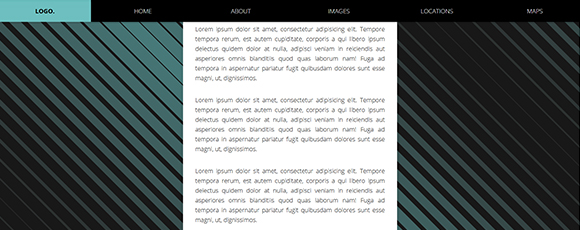
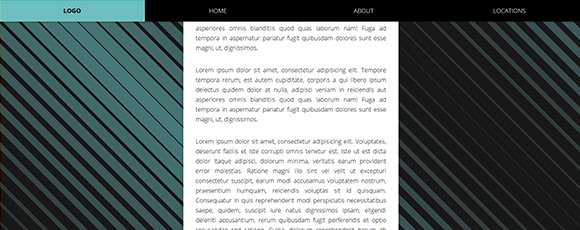
JavaScript30 - 24 - Responsive

diff --git a/src/assets/scss/components/javascript30/_24-sticky-nav.scss b/src/assets/scss/components/javascript30/_24-sticky-nav.scss
@@ -9,7 +9,7 @@
     
     .site-wrap {
         max-width: 700px;
-        margin: 70px auto;
+        margin: 0 auto;
         background: $white;
         padding: 40px;
         text-align: justify;
@@ -28,33 +28,51 @@
 
         a {
             text-decoration: none;
-            padding: 20px;
             display: inline-block;
             color: white;
             transition: all 0.2s;
             text-transform: uppercase;
+            padding: 0;
+
+            @include breakpoint(medium){
+                padding: 1em;
+            }
         }      
 
         ul {
             margin: 0;
             padding: 0;
             list-style: none;
-            display: flex;
+
+            @include breakpoint(medium){
+                display: flex;
+            }
 
             li {
                 margin-bottom: 0;
-                flex: 1;
                 text-align: center;
-                display: flex;
+                display: inline-block;
+                width: 49%;
                 justify-content: center;
                 align-items: center;
+                margin-left: 0;
+                padding-bottom: 0.33em;
+                word-break: normal;
+
+                @include breakpoint(medium){
+                    flex: 1;
+                    display: flex;
+                    align-items: center; 
+                    padding-bottom: 0;
+                }
 
                 &.logo{
                     overflow: hidden;
                     background: $blue;
                     transition: all 0.5s;
                     font-weight: bold;
-                    margin-left: 0;
+                    width: 100%;
+                    padding-bottom: 0;
 
                     a{
                         color: black;
@@ -73,10 +91,6 @@
             position: fixed;
             box-shadow: 0 5px 0 rgba(0,0,0,0.1);
             z-index: 99999;
-        }
-
-        li.logo {
-            max-width: 500px;
         }
     }
 }

diff --git a/src/pages/portfolio/development/javascript30/24-sticky-nav.html b/src/pages/portfolio/development/javascript30/24-sticky-nav.html
@@ -44,12 +44,10 @@ canonical: https://corey-noble.com/portfolio/development/javascript30/24-sticky-
 <div id="javascript30-24">
     <div id="sticky-nav">
         <ul>
-            <li class="logo"><a href="#">Logo.</a></li>
-            <li><a href="#">Home</a></li>
+            <li class="logo"><a href="#">LOGO</a></li>
+            <li class="show-for-medium"><a href="#">Home</a></li>
             <li><a href="#">About</a></li>
-            <li><a href="#">Images</a></li>
             <li><a href="#">Locations</a></li>
-            <li><a href="#">Maps</a></li>
         </ul>
     </div>
 
